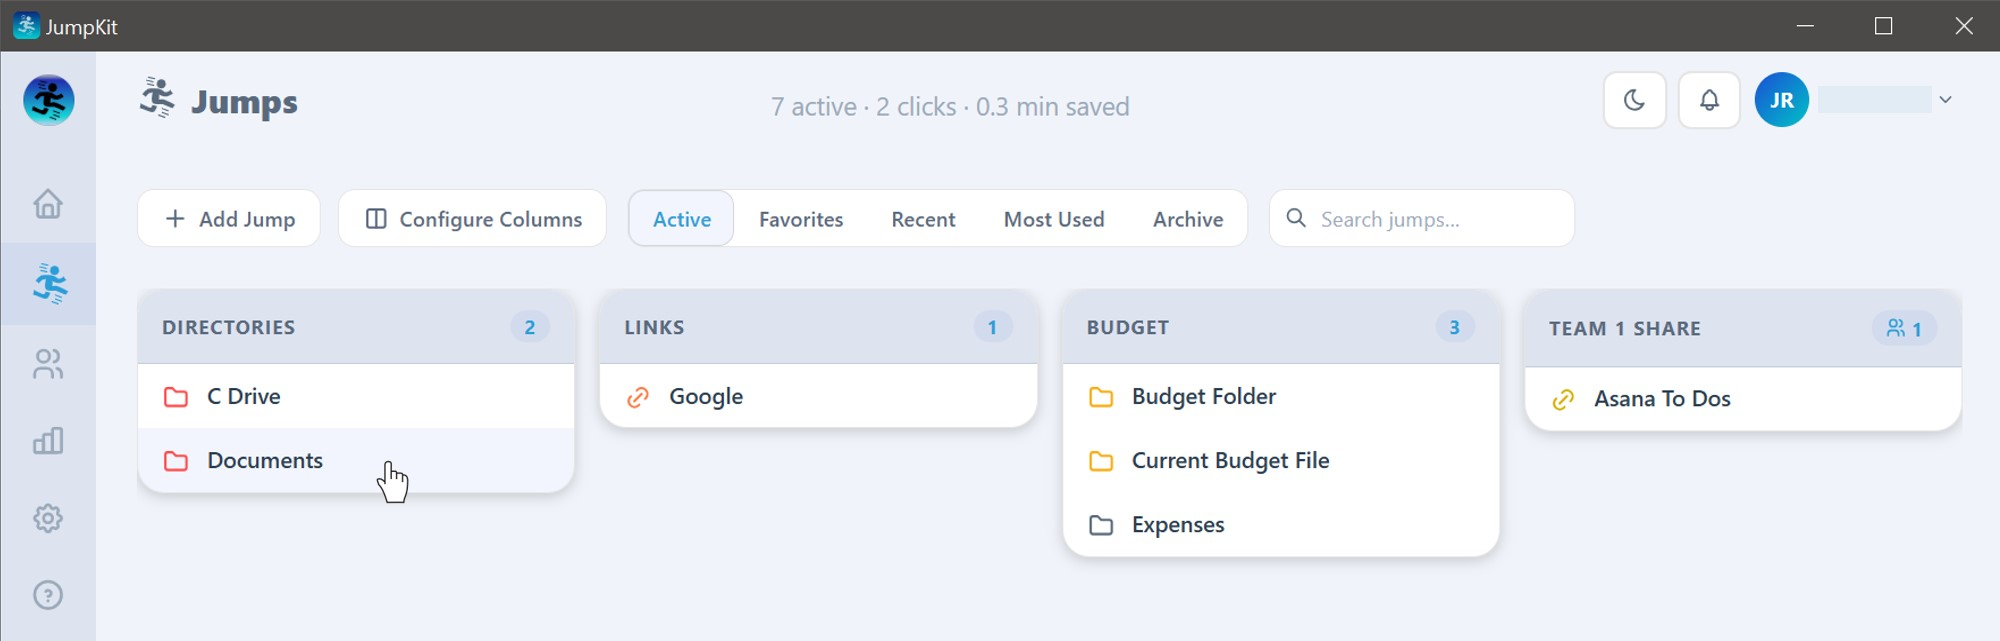
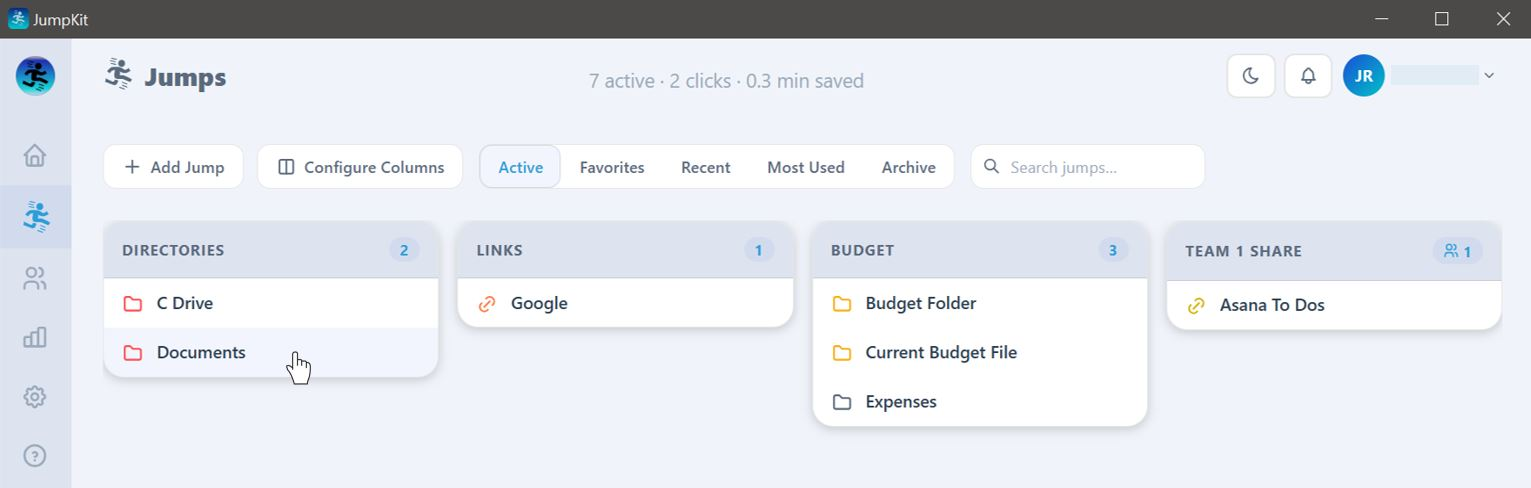
Hero: replace Windows screenshots with new v2 images

diff --git a/Topics/JumpKit/landing/index.html b/Topics/JumpKit/landing/index.html
@@ -90,8 +90,8 @@
           <img src="assets/Jumpkit-hero-light.png" alt="JumpKit macOS" class="hero-screenshot hero-screenshot-light" />
         </div>
         <div class="hero-screenshot-wrap hero-screenshot-win" onclick="openLightboxThemed(this)">
-          <img src="assets/hero-windows-dark.jpg?v=4" alt="JumpKit Windows" class="hero-screenshot hero-screenshot-dark" />
-          <img src="assets/hero-windows-light.jpg?v=4" alt="JumpKit Windows" class="hero-screenshot hero-screenshot-light" />
+          <img src="assets/hero-windows-dark.jpg?v=5" alt="JumpKit Windows" class="hero-screenshot hero-screenshot-dark" />
+          <img src="assets/hero-windows-light.jpg?v=5" alt="JumpKit Windows" class="hero-screenshot hero-screenshot-light" />
         </div>
       </div>
     </div>